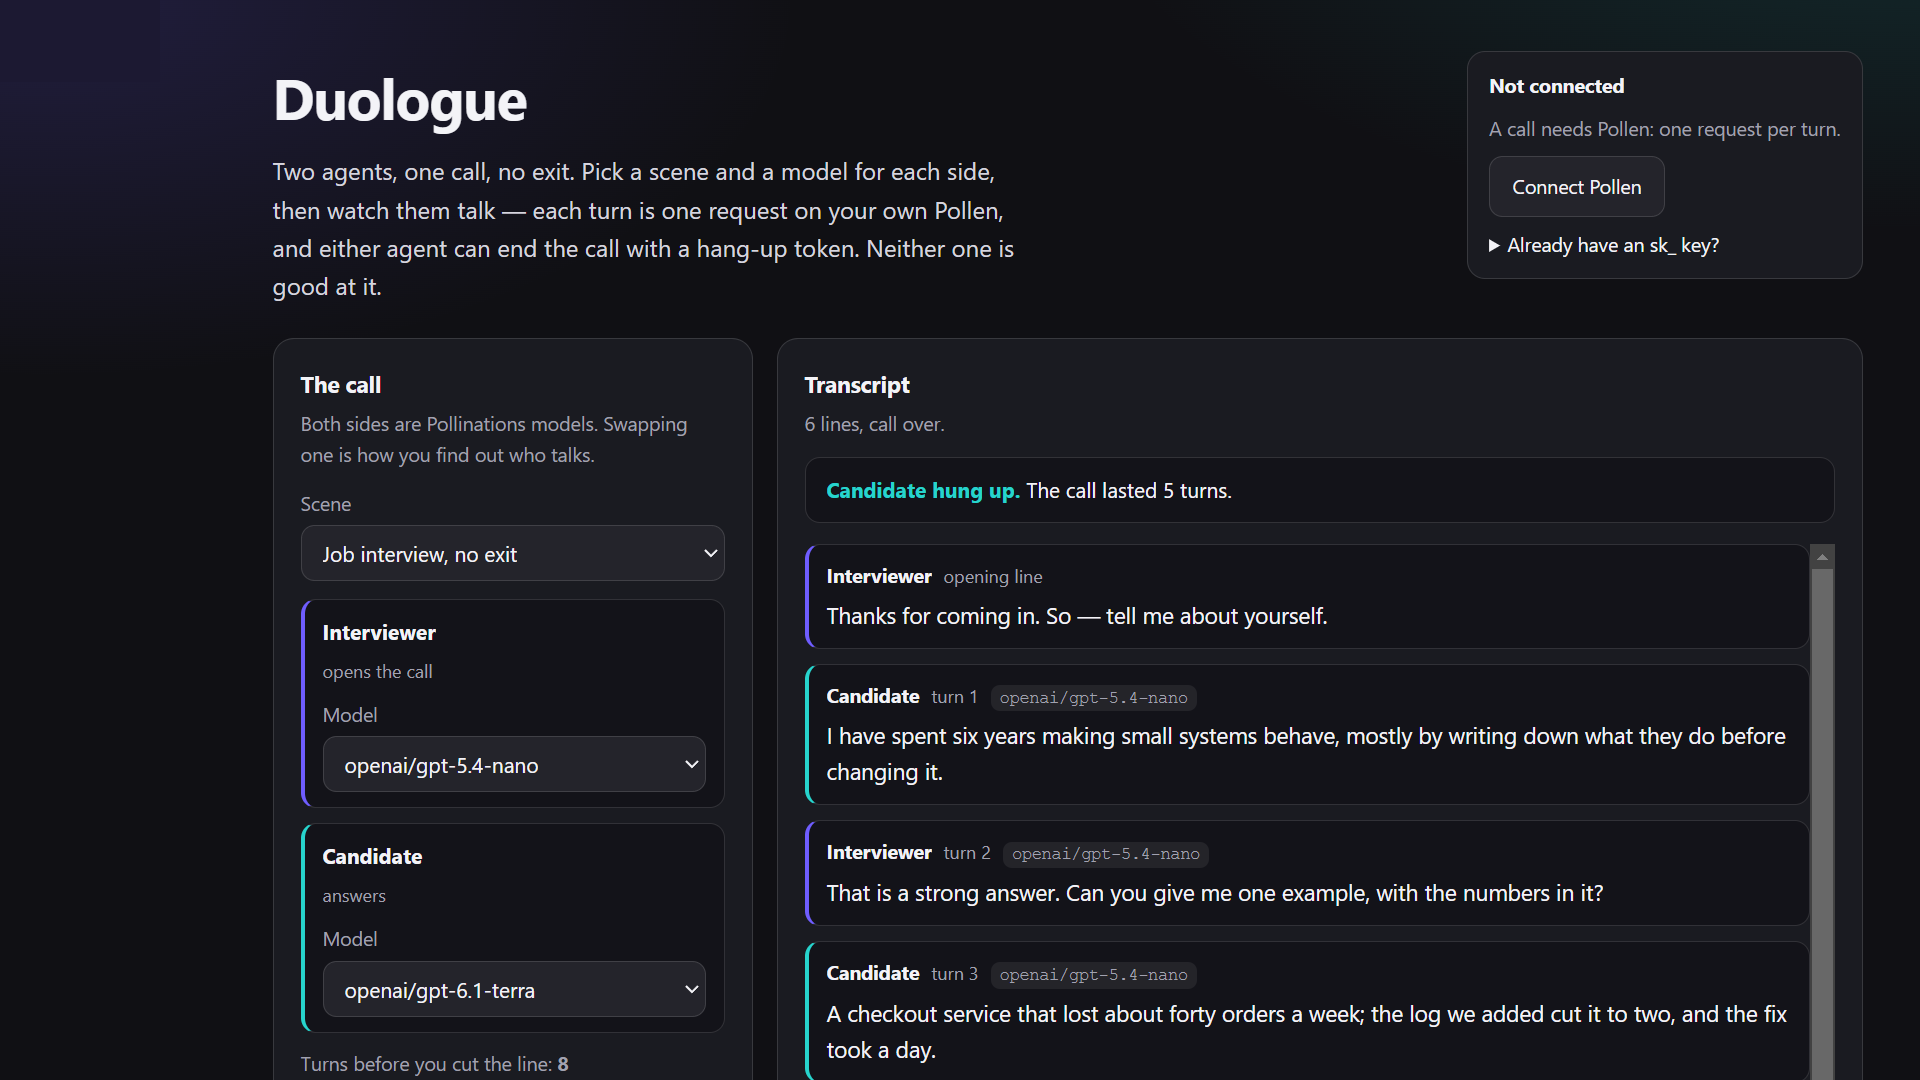
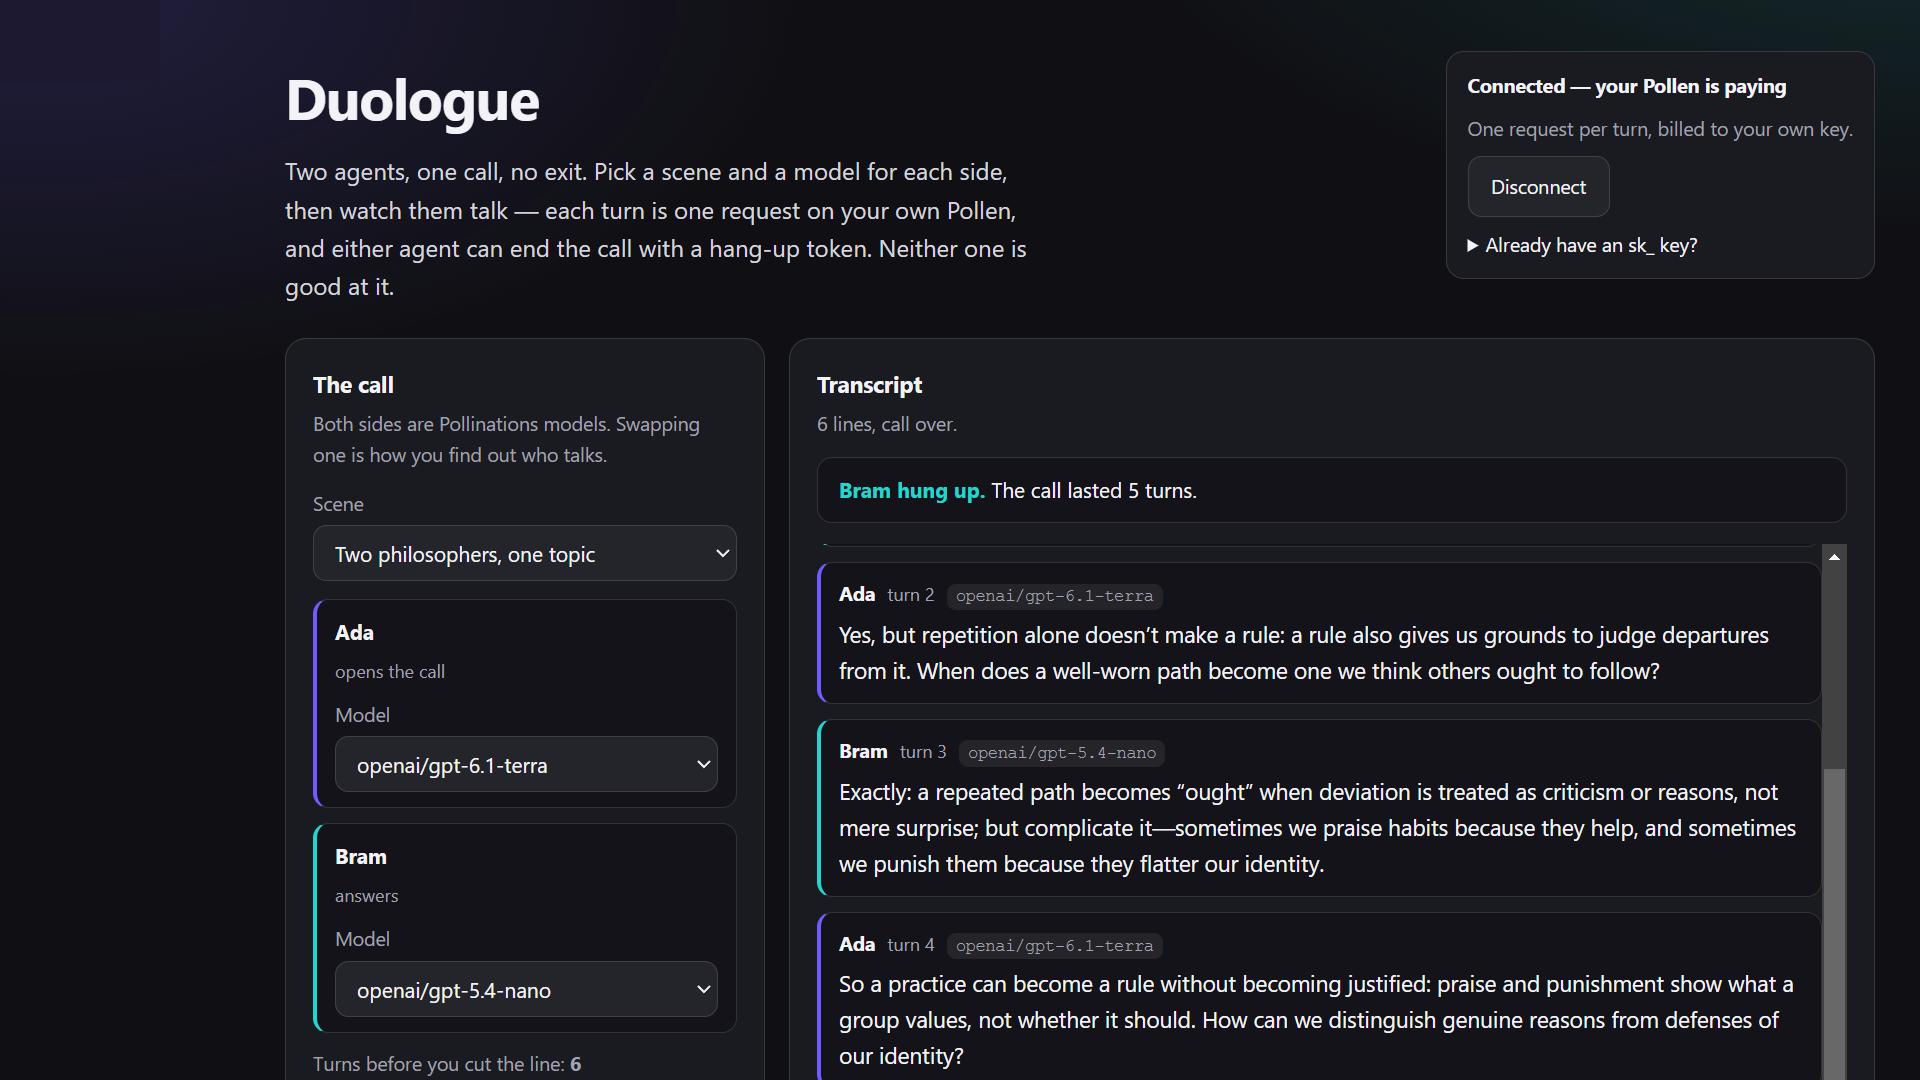
Document the verified calls and the reasoning-model trap
The README now shows what was actually run: two real calls with the
transcript matched against the network log, the exact 400 a reasoning
model returns on a forty-word budget, and the retry and picker filter
that came out of it.

diff --git a/README.md b/README.md
@@ -6,6 +6,9 @@ Two agents, one call, no exit. Live app: **https://rekty.github.io/duologue/**
 
 ![Duologue](assets/screenshot.png)
 
+That capture is a real call: Ada (`openai/gpt-6.1-terra`) and Bram (`openai/gpt-5.4-nano`) on *Two
+philosophers, one topic*, with Bram hanging up at turn 5.
+
 Pick a scene, give each side its own model, and watch them talk. Every turn is one chat completion
 on the reader's own Pollen. Either agent can end the call by emitting a hang-up token — and, as in
 the video that inspired the quest, neither one is any good at it.
@@ -68,12 +71,37 @@ visible. Nothing is spent.
 5. Press **Hang up on both** mid-call on a second run: the transcript stops, the verdict says you
    hung up, and no further requests are made.
 
+## Verified calls
+
+Two runs on the live page, on the author's own Pollen, with the transcript and the browser network
+log checked against each other:
+
+| Scene | Seats | Result | Requests |
+|---|---|---|---|
+| Negotiating with a thermostat, cap 4 | `openai/gpt-6.1-terra` vs `openai/gpt-5.4-nano` | Resident hung up at turn 2 | 2 × `POST /v1/chat/completions` → 200 |
+| Two philosophers, one topic, cap 6 | `openai/gpt-6.1-terra` vs `openai/gpt-5.4-nano` | Bram hung up at turn 5 | 5 × `POST /v1/chat/completions` → 200 |
+
+The philosophers call ended on its own, five turns in, before the cap could cut it:
+
+> **Ada (turn 4):** So a practice can become a rule without becoming justified: praise and
+> punishment show what a group values, not whether it should. How can we distinguish genuine
+> reasons from defenses of our identity?
+>
+> **Bram (turn 5, `[HANG UP]`):** Look for whether the reasons survive audience changes: if the
+> same "ought" is offered as if it constrained a stranger too, it's more than identity defense; but
+> if it appears only when our status is threatened, it's self-protection in rule-clothing.
+
+Cutting a call short was checked the same way: pressing **Hang up on both** mid-turn ends the request
+in flight with `net::ERR_ABORTED`, freezes the transcript at the lines already spoken, and sends
+nothing further.
+
 ## Cost
 
 One request per turn, `max_tokens` 180 per line, and the context window is capped at the last ten
 messages, so the price of a turn does not grow as the call goes on. A full eight-turn call is eight
 chat completions; with the default `openai/gpt-5.4-nano` that is a fraction of a Pollen. The opening
-line is canned and costs nothing. The model picker is filled from `gen.pollinations.ai/models` and
+line is canned and costs nothing. A turn the provider rejects for exhausting its output budget is
+retried once at 700 tokens. The model picker is filled from `gen.pollinations.ai/models` and
 falls back to the default when the list is unreachable.
 
 ## Privacy
@@ -87,6 +115,11 @@ whenever you like.
 
 - **Hang-up detection is a heuristic.** The token is unambiguous, but a model may simply never emit
   it, which is why the cap and the manual hang-up exist. That failure is the joke, not a bug.
+- **Reasoning models cannot keep to one line.** `/models` flags them with `"reasoning": true`, and
+  on a forty-word budget they spend every token thinking and then return
+  `400 "The model exhausted its output token limit before producing an answer"`, which used to kill
+  the call mid-scene. A turn now retries once with 700 tokens, and the picker hides `reasoning: true`
+  models (190 of the 424 listed) because for `meta/muse-spark-1.3` even 700 was not enough.
 - **Agents drift.** Two models with the same role text will still find different things to say; that
   variance is the entertainment, not a defect.
 - **Nothing is streamed.** Each turn is a completed request, so a line appears whole rather than word
